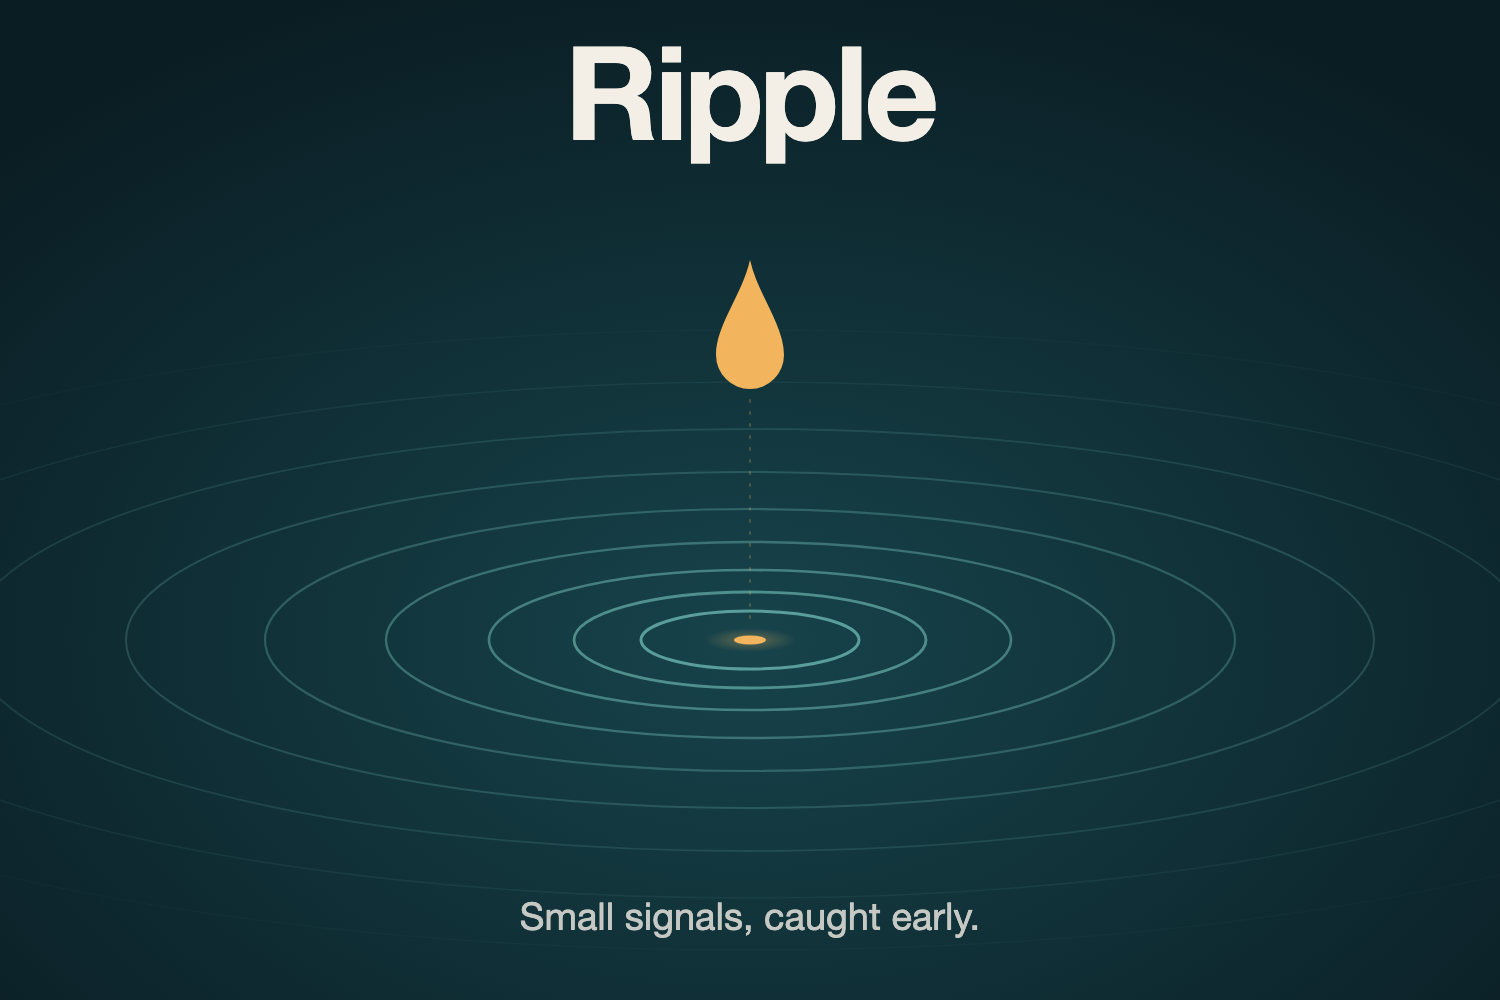
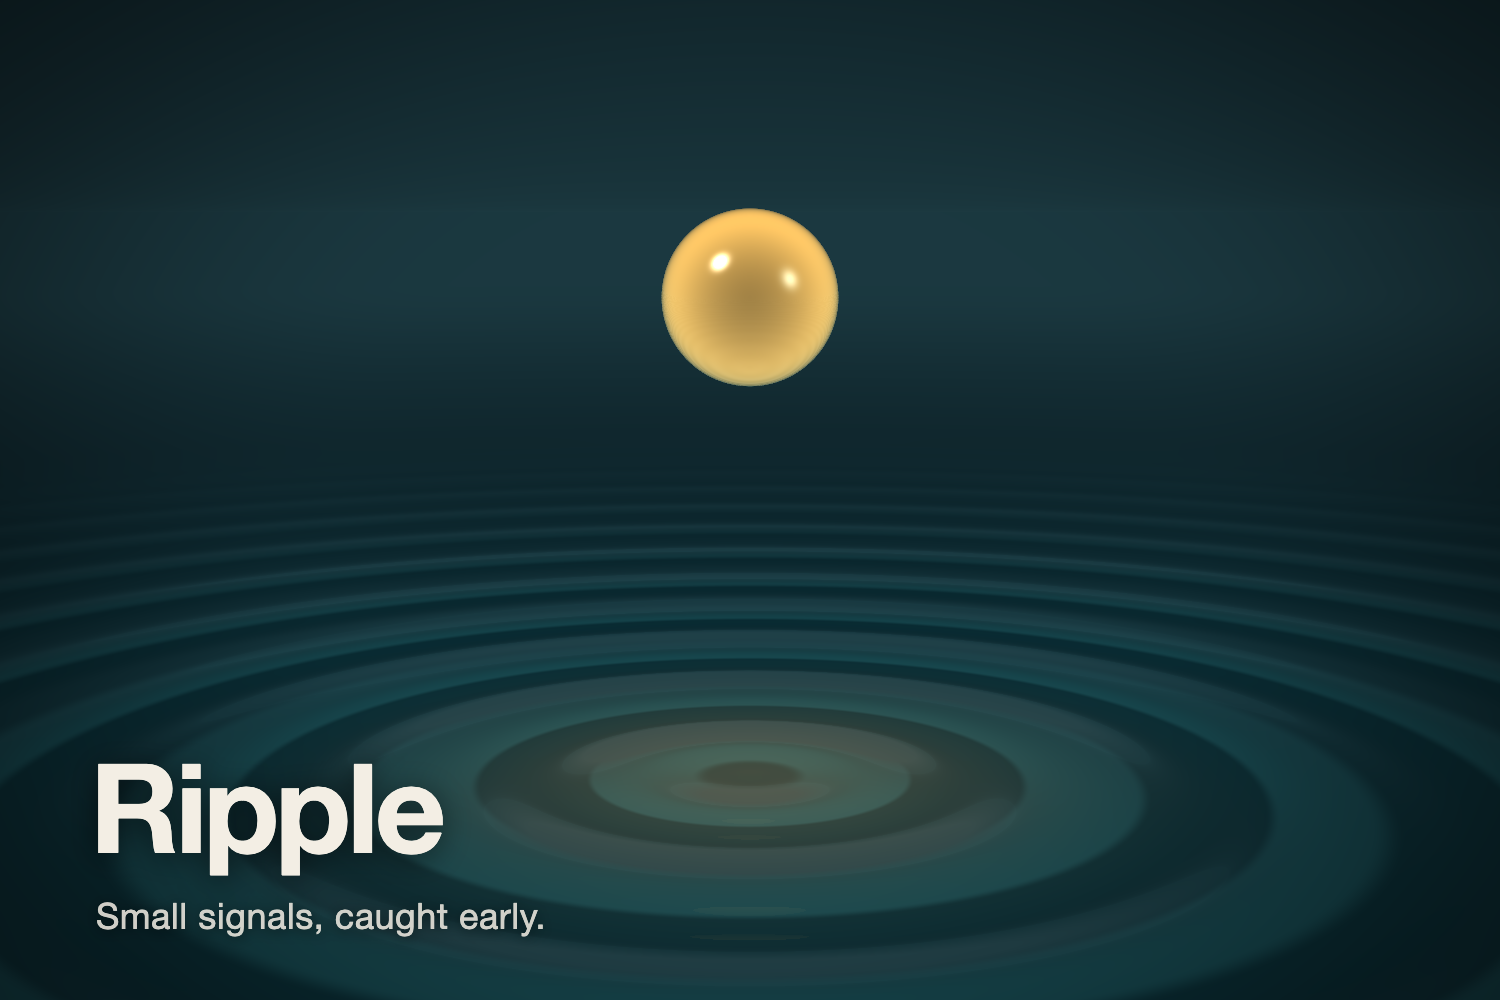
pitch: realistic 3D droplet thumbnail (WebGL render)

diff --git a/pitch/thumb/render.html b/pitch/thumb/render.html
@@ -1,0 +1,77 @@
+<!doctype html><meta charset="utf-8">
+<body style="margin:0;background:#06151a;width:1500px;height:1000px;position:relative;overflow:hidden">
+<canvas id="c" width="1500" height="1000" style="position:absolute;inset:0"></canvas>
+<div style="position:absolute;left:90px;bottom:118px;font:700 124px 'Helvetica Neue',Arial,sans-serif;color:#f3eee4;letter-spacing:-4px;text-shadow:0 4px 30px rgba(0,0,0,.55)">Ripple</div>
+<div style="position:absolute;left:96px;bottom:62px;font:400 36px 'Helvetica Neue',Arial,sans-serif;color:#f3eee4;opacity:.85;letter-spacing:.5px;text-shadow:0 2px 14px rgba(0,0,0,.6)">Small signals, caught early.</div>
+<script>
+const c=document.getElementById('c');const gl=c.getContext('webgl');
+const vs=`attribute vec2 p;void main(){gl_Position=vec4(p,0.,1.);}`;
+const fs=`precision highp float;uniform vec2 R;
+const vec3 SC=vec3(0.,1.45,0.);const float SR=0.26;
+float hgt(vec2 p){float r=length(p);
+  float A=exp(-0.55*r)*smoothstep(0.0,0.35,r)*(1.0-smoothstep(5.0,8.5,r));
+  return A*0.085*sin(r*9.0-1.2)+0.5*A*0.03*sin(r*17.0);}
+vec3 env(vec3 d){
+  float t=clamp(d.y*0.5+0.5,0.,1.);
+  vec3 hor=vec3(0.1,0.22,0.25),top=vec3(0.015,0.06,0.08);
+  vec3 c=mix(hor,top,pow(clamp(d.y,0.,1.),0.45));
+  vec3 L=normalize(vec3(-0.45,0.55,0.35));
+  c+=vec3(1.0,0.78,0.5)*pow(max(dot(d,L),0.),180.)*2.2;
+  c+=vec3(1.0,0.78,0.5)*pow(max(dot(d,L),0.),12.)*0.12;
+  return c;}
+float sph(vec3 ro,vec3 rd){vec3 oc=ro-SC;float b=dot(oc,rd),c=dot(oc,oc)-SR*SR,h=b*b-c;if(h<0.)return -1.;return -b-sqrt(h);}
+vec3 sphShade(vec3 ro,vec3 rd,float t){
+  vec3 p=ro+rd*t;vec3 n=normalize(p-SC);
+  float F=0.06+0.94*pow(1.0-max(dot(n,-rd),0.),3.);
+  vec3 rf=reflect(rd,n);
+  // reflected water + env
+  vec3 refl=env(rf);
+  if(rf.y<0.){float tw=-p.y/rf.y;vec2 q=(p+rf*tw).xz;refl=mix(vec3(0.03,0.14,0.17),vec3(0.14,0.3,0.33),0.4)+vec3(0.04)*sin(length(q)*9.0);}
+  vec3 rr=refract(rd,n,1.0/1.33);
+  float down=clamp(-rr.y*0.5+0.5,0.,1.);
+  vec3 inner=mix(vec3(0.1,0.3,0.32),vec3(1.0,0.7,0.28),0.45+0.55*down)*(0.85+1.1*pow(1.0-abs(dot(n,-rd)),0.8));
+  inner+=vec3(1.0,0.8,0.4)*exp(-8.0*length(n.xz-vec2(0.,0.)+vec2(0.,0.35)))*0.5;
+  inner+=vec3(1.0,0.85,0.6)*pow(max(dot(normalize(vec3(0.,-1.,0.)+n*0.2),-rd),0.),6.)*0.25;
+  vec3 col=mix(inner,refl,F);
+  vec3 L=normalize(vec3(-0.45,0.55,0.35));
+  col+=vec3(1.)*pow(max(dot(reflect(-L,n),-rd),0.),90.)*1.6;
+  col+=vec3(0.7,0.9,1.)*pow(max(dot(reflect(-normalize(vec3(0.6,0.3,0.4)),n),-rd),0.),60.)*0.5;
+  return col;}
+void main(){
+  vec2 uv=(gl_FragCoord.xy-0.5*R)/R.y;
+  vec3 ro=vec3(0.,1.7,5.6);vec3 ta=vec3(0.,0.85,0.);
+  vec3 f=normalize(ta-ro),r=normalize(cross(f,vec3(0.,1.,0.))),u=cross(r,f);
+  vec3 rd=normalize(f*1.9+r*uv.x+u*uv.y);
+  vec3 col;
+  float ts=sph(ro,rd);
+  float tw=rd.y<0.?-ro.y/rd.y:1e9;
+  if(ts>0.&&ts<tw){col=sphShade(ro,rd,ts);}
+  else if(rd.y<0.){
+    vec3 p=ro+rd*tw;
+    float e=0.01;
+    float h=hgt(p.xz);
+    vec3 n=normalize(vec3(-(hgt(p.xz+vec2(e,0.))-h)/e*1.0,1.,-(hgt(p.xz+vec2(0.,e))-h)/e*1.0));
+    float F=0.02+0.98*pow(1.0-max(dot(n,-rd),0.),5.);
+    vec3 rf=reflect(rd,n);
+    vec3 refl=env(rf);
+    float tr=sph(p,rf);
+    if(tr>0.){vec3 hp=p+rf*tr;vec3 nn=normalize(hp-SC);float k=0.4+0.6*clamp(-nn.y*0.5+0.5,0.,1.);refl=mix(refl,vec3(1.0,0.66,0.26)*k,0.9);}
+    float depth=clamp(length(p.xz)/9.,0.,1.);
+    vec3 base=mix(vec3(0.03,0.17,0.2),vec3(0.015,0.075,0.095),depth);
+    base+=vec3(0.05,0.12,0.12)*smoothstep(0.,0.1,h*6.0)*0.8; // crest scatter
+    col=mix(base,refl,clamp(F*1.15,0.,1.));
+    // warm glow under droplet on water
+    col+=vec3(0.9,0.5,0.15)*0.22*exp(-dot(p.xz,p.xz)*1.3);
+    float fog=smoothstep(6.,40.,length(p.xz));
+    col=mix(col,env(vec3(0.,0.02,-1.)),fog);
+  } else {col=env(rd)*0.9;}
+  // vignette
+  float v=length(uv*vec2(0.9,1.1));col*=1.0-0.55*smoothstep(0.35,1.0,v);
+  col=pow(col,vec3(0.92));
+  gl_FragColor=vec4(col,1.);}`;
+function sh(t,s){const o=gl.createShader(t);gl.shaderSource(o,s);gl.compileShader(o);if(!gl.getShaderParameter(o,gl.COMPILE_STATUS))document.title='ERR '+gl.getShaderInfoLog(o);return o;}
+const pr=gl.createProgram();gl.attachShader(pr,sh(gl.VERTEX_SHADER,vs));gl.attachShader(pr,sh(gl.FRAGMENT_SHADER,fs));gl.linkProgram(pr);gl.useProgram(pr);
+const b=gl.createBuffer();gl.bindBuffer(gl.ARRAY_BUFFER,b);gl.bufferData(gl.ARRAY_BUFFER,new Float32Array([-1,-1,1,-1,-1,1,1,1]),gl.STATIC_DRAW);
+const l=gl.getAttribLocation(pr,'p');gl.enableVertexAttribArray(l);gl.vertexAttribPointer(l,2,gl.FLOAT,false,0,0);
+gl.uniform2f(gl.getUniformLocation(pr,'R'),1500,1000);gl.viewport(0,0,1500,1000);gl.drawArrays(gl.TRIANGLE_STRIP,0,4);
+</script>
